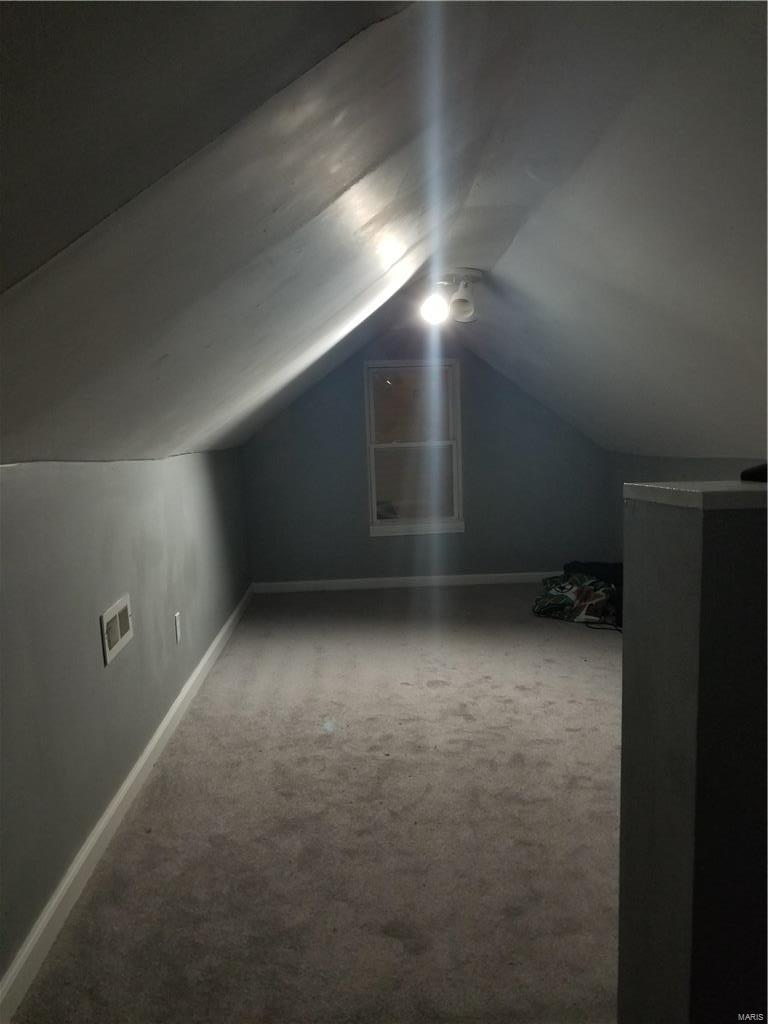
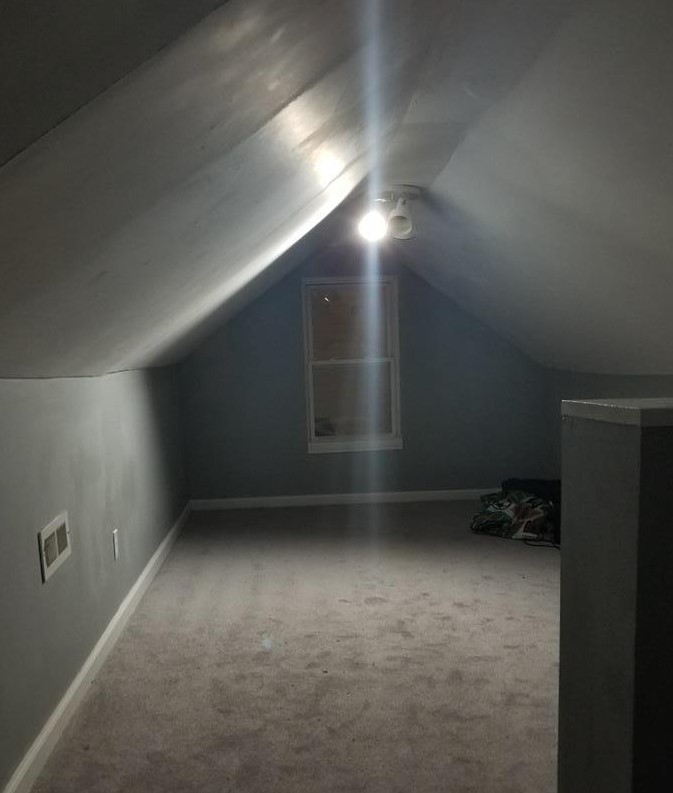
GA 4 Complete

diff --git a/index.html b/index.html
@@ -10,12 +10,12 @@
 </head>
 
 <body>
-   <article class="content">
-      <header>
-         <h1 id="mainHeading" class="charm-regular">My Great-Grandparents:</h1>
-         <h1 id="subHeading" class="charm-regular">A Greatly Abridged Story</h1>
-      </header>
-      <main>
+   <header class="content">
+      <h1 id="mainHeading" class="charm-regular">My Great-Grandparents:</h1>
+      <h1 id="subHeading" class="charm-regular">A Greatly Abridged Story</h1>
+   </header>
+   <main class="content">
+      <article>
          <section>
             <h2 class="charm-regular">The Beginning</h2>
             <p>George was born in 1901 in St. Louis, Missouri, the tenth of what would eventually be thirteen children.
@@ -27,12 +27,13 @@
                - once, twice, three times. But love prevailed, and in September of 1921, they finally eloped in his
                Model T Ford to Clayton, Missouri, where they were married before a justice of the peace. He was 20, and
                she was just shy of 18.</p>
-            <figure>
-               <img src="images/Amelia-and-George-wedding.jpg"
-                  alt="George and Amelia pictured on their formal wedding day.">
-               <figcaption>George's parents hosted a second, traditional wedding after George and Amelia's elopement.
-               </figcaption>
-            </figure>
+            <div class="center">
+                  <img src="images/Amelia-and-George-wedding.jpg"
+                     alt="George and Amelia pictured on their formal wedding day.">
+                  <caption><em>George's parents hosted a second, traditional wedding after George and
+                        Amelia's elopement.</em>
+                  </caption>
+            </div>
          </section>
          <section>
             <h2 class="charm-regular">A Family of Eleven</h2>
@@ -43,21 +44,25 @@
                wall&#8209;to&#8209;wall beds in the attic. George took whatever jobs he could to make ends meet during
                those hard times: fabricating obsolete car parts, painting houses, and fixing his neighbors' plumbing.
                Amelia, with the patience of a saint, took care of the home and children.
-            <figure>
-               <img src="images/Beck-Avenue.jpg" alt="A modern photo of George and Amelia's home on Beck Avenue.">
-               <figcaption>A recent photo of the home George and Amelia shared with their nine children on Beck Avenue.
-               </figcaption>
-            </figure>
-            <figure>
-               <img src="images/Beck-Avenue-attic.jpg"
-                  alt="The attic of the family home on Beck Avenue, where the nine siblings slept.">
-               <figcaption>I imagine this is the attic wherein all nine siblings slept.
-               </figcaption>
-            </figure>
-
+            <div class="photoRow">
+               <div class="photo">
+                  <figure>
+                     <img src="images/Beck-Avenue-front.jpg"
+                        alt="A modern photo of George and Amelia's home on Beck Avenue.">
+                     <figcaption><em>The family home on Beck Avenue.</em></figcaption>
+                  </figure>
+                  <figure>
+                     <img src="images/Beck-Avenue-attic.jpg"
+                        alt="The attic of the family home on Beck Avenue, where the nine siblings slept.">
+                     <figcaption><em>The attic wherein the nine children slept.</em></figcaption>
+                  </figure>
+               </div>
+            </div>
             </p>
             <p>All four of George and Amelia's sons left home to serve in World War II. Unfortunately, one of their sons
-               did not return; he was killed in action at Iwo Jima in 1945, at just 19 years old. My grandmother has
+               did not return; he was killed in action at the <a href="https://en.wikipedia.org/wiki/Battle_of_Iwo_Jima"
+                  target="_blank">Battle of Iwo Jima</a> in 1945, at just 19
+               years old. My grandmother has
                always remembered this brother so fondly; he was generous and kind, always making time to entertain his
                younger siblings and to help his mother. His death was incredibly hard on both parents, but especially
                Amelia. Years later, the three remaining sons served in the Korean War. Thankfully, they all returned.
@@ -70,13 +75,16 @@
          </section>
          <section>
             <h2 class="charm-regular">Generations of Descendants</h2>
+            <img id="floatImg" src="images/strawberry-candy.jpg"
+               alt="The stale strawberry hard candies that everyone's grandparents had in their candy dish.">
             <p>George and Amelia left quite a legacy. Eight of their children produced 39 grandchildren. I am one
                of 117 great&#8209;grandchildren. As of February of 2004, the great&#8209;great&#8209;grandchildren count
                was at 45, and the great&#8209;great&#8209;great&#8209;grandchildren count was at eight. These last two
                numbers are, of course, much higher now. But Amelia was still alive at this last count, witnessing her
                family of 217 descendants. <em><b>Two hundred and seventeen descendants</em></b>, and I am so very proud
-               to be one of them. I remember visiting my great&#8209;grandparents as a child, always a little bit
-               afraid of my great&#8209;grandpa and always calmed by my great&#8209;grandma, who would gently whistle to
+               to be one of them. I remember visiting my great&#8209;grandparents as a child; they always had a candy
+               dish full of those liquid-filled strawberry hard candies. I was a bit
+               afraid of my great&#8209;grandpa but calmed by my great&#8209;grandma, who would gently whistle to
                herself in her chair as my great&#8209;grandpa went on and on about whatever political issue was
                bothering him at the time. She always said he should have been a politician.</p>
          </section>
@@ -90,32 +98,27 @@
                she held on until March of 2005, when she passed away at the age of 101. When George passed away in 2004,
                he and Amelia had been married for 82 years. Not a Guinness World Record (we tried), but incredibly
                impressive nontheless. For perpective, the average lifespan an American at that time was 77.8 years.</p>
-            <p>George and Amelia were featured more than once in the St. Louis Post Dispatch, as well as other
-               publications, in celebration of their long lives and 80+ year marriage. Here are a few photos taken for a
-               feature in the St. Louis Post Dispatch in August 2001, right before they celebrated their 80th
-               anniversary:</p>
-            <div>
-               <img src="images/Gma-and-Gpa_STLPD-2001.jpg" alt="George and Amelia in their room at the nursing home.">
-               <img src="images/Gpa-rubbing-feet_STLPD-2001.jpg" alt="George rubbing Amelia's feet.">
-               <img src="images/Gpa-arm-pulleys_STLPD-2001.jpg" alt="George doing exercises with the arm pulleys.">
+            <p>George and Amelia were featured several times in both local and national news publications in celebration
+               of their long lives and over&#8209;80&#8209;year marriage. Here are a few photos taken for a feature in
+               the St. Louis Post Dispatch in August 2001, right before they celebrated their 80th anniversary:</p>
+            <div class="photoRow">
+               <div class="photo">
+                  <figure>
+                     <img src="images/Gma-and-Gpa_STLPD-2001.jpg"
+                        alt="George and Amelia in their room at the nursing home.">
+                     <figcaption><em>George, 100, and Amelia, 97, in 2001.</em></figcaption>
+                  </figure>
+                  <figure>
+                     <img src="images/Gpa-rubbing-feet_STLPD-2001.jpg" alt="George rubbing Amelia's feet.">
+                     <figcaption><em>Amelia enjoying a foot rub by George.</em></figcaption>
+                  </figure>
+                  <figure>
+                     <img src="images/Gpa-arm-pulleys_STLPD-2001.jpg"
+                        alt="George doing exercises with the arm pulleys.">
+                     <figcaption><em>George using the arm pulleys.<em></figcaption>
+                  </figure>
+               </div>
             </div>
-            <!-- <figure>
-                  <img src="images/Gpa-arm-pulleys_STLPD-2001.jpg" alt="George doing exercises with the arm pulleys.">
-                  <figcaption>At 100 years old, George said he exercised with these arm pulleys daily.
-                  </figcaption>
-               </figure>
-               <figure>
-                  <img src="images/Gpa-rubbing-feet_STLPD-2001.jpg"
-                     alt="George rubbing Amelia's feet.">
-                  <figcaption>George would rub Amelia's feet as part of her physical therapy.
-                  </figcaption>
-               </figure>
-               <figure>
-                  <img src="images/Gma-and-Gpa_STLPD-2001.jpg"
-                     alt="George and Amelia in their room at the nursing home.">
-                  <figcaption>George and Amelia were featured in the St. Louis Post Dispatch when they celebrated their 80th anniversary.
-                  </figcaption>
-               </figure> -->
          </section>
          <section>
             <h2 class="charm-regular">A Bit of Advice</h2>
@@ -123,13 +126,13 @@
                my great&#8209;grandparents.
                When asked for the secret to their longevity, George once said, <q>You have to cooperate with one
                   another. Everybody has faults.</q> Amelia replied, <q>You can't disagree about everything; it would
-                  never work.</q> Also, I'm pretty sure they drank a shot of straight vinegar every day, so there's
-               that. Cheers!&#129346</p>
+                  never work.</q> They also drank a shot of straight vinegar every day, so there's that. Cheers!&#129346
+            </p>
          </section>
-         <footer>
-            &copy; Melissa Cusumano, 2024
-         </footer>
-   </article>
+      </article>
+      <footer class="content">
+         &copy; Melissa Cusumano, 2024
+      </footer>
    </main>
 </body>
 

diff --git a/styles.css b/styles.css
@@ -1,7 +1,7 @@
 body {
     margin: 8px;
     display: block;
-    background: #555;
+    background: radial-gradient(bisque, #3f87a6);
 }
 
 .funParagraph {
@@ -32,15 +32,28 @@ body {
 h2 {
     font-size: 1.75rem;
     display: flex;
+    margin-top: 2rem;
+    margin-bottom: .5rem;
+    margin-left: 1.5rem;
+    margin-right: 1rem;
 }
 
 h2::after {
     content: '';
     flex: 1;
     margin-left: .25rem;
+    margin-right: .75rem;
     height: 2px;
     background-color: #000;
     margin-top: 1.9rem;
+}
+
+p {
+    margin-top: 0rem;
+    margin-left: 1.5rem;
+    margin-right: 1.5rem;
+    text-align: justify;
+    line-height: 1.25rem;
 }
 
 .charm-regular {
@@ -49,15 +62,69 @@ h2::after {
     font-style: normal;
 }
 
-.charm-bold {
-    font-family: "Charm", cursive;
-    font-weight: 700;
-    font-style: normal;
+footer {
+    margin-top: 2rem;
+    text-align: right;
 }
 
-
-
-div {
+.photoRow {
+    background: bisque;
     display: flex;
     flex-direction: row;
+    justify-content: center;
+    width: 100%;
+}
+
+.photo {
+    align-items: center;
+    background: bisque;
+    display: flex;
+    flex-direction: row;
+    justify-content: center;
+    width: 100%;
+}
+
+figcaption {
+    text-align: left;
+    background: bisque;
+}
+
+.photo img {
+    max-height: 20.625rem;
+    width: auto;
+}
+
+#floatImg {
+    float: right;
+    max-height: 10rem;
+    width: auto;
+    margin-top: 1rem;
+    margin-left: 1rem;
+    margin-right: 1.5rem;
+}
+
+.center {
+    background: bisque;
+    display: block;
+    margin-left: auto;
+    margin-right: auto;
+    padding-left: 2rem;
+    padding-right: 2rem;
+    padding-top: 1rem;
+    padding-bottom: 1rem;
+    width: 75%;
+}
+
+@media (min-width: 900px) {
+    .photoRow {
+        align-items: stretch;
+        flex-direction: row;
+        justify-content: center;
+    }
+
+    .photo {
+        align-items: center;
+        text-align: center;
+        justify-content: center;
+    }
 }
